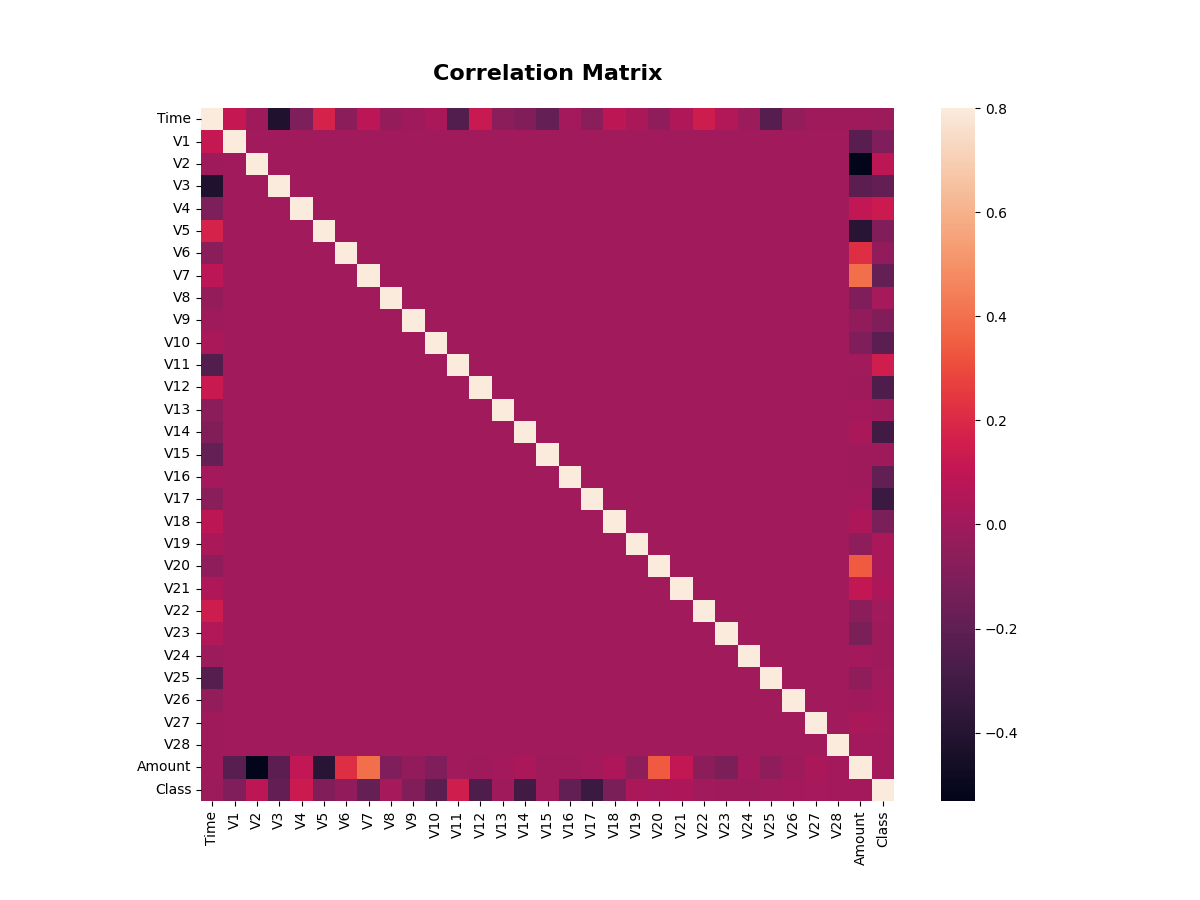
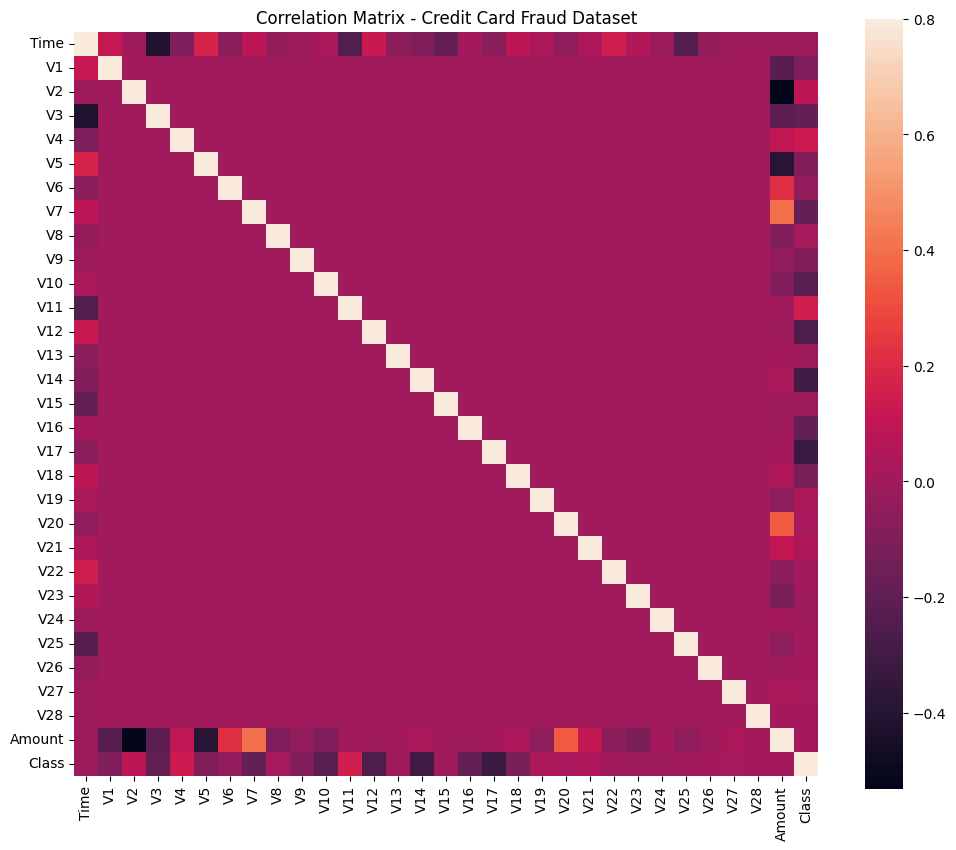
Updated clean and optimized code

diff --git a/scripts/compiled_model_results.py b/scripts/compiled_model_results.py
@@ -7,14 +7,12 @@ from imblearn.over_sampling import SMOTE
 from sklearn.preprocessing import StandardScaler
 from sklearn.metrics import precision_score, recall_score, f1_score, matthews_corrcoef
 
-# --- LOCAL PACKAGED MODULE IMPORTS ---
+# --- importing local packages ---
 from scripts.algorithms import (
     train_standard_rfc, train_optimized_rfc, train_xgboost, 
     train_balanced_rfc, train_logistic_regression, train_linear_svc, train_knn
 )
 
-from imblearn.over_sampling import SMOTE
-from sklearn.preprocessing import StandardScaler
 
 def smote_resampled(x_train, y_train):
     # Rebalanceing the dataset rows using SMOTE.
@@ -64,40 +62,38 @@ def model_evaluation():
     xTrain_scaled, xTest_scaled = scale_data(xTrain_res, xTest)
 
 
-    print("\n--- Training Benchmark Grid Started ---")
-    print("This will take a few moments as we are training 7 different models for benchmarking purposes\n")
+    # Defining the benchmark matrix configuration for all models to be evaluated in a single loop for efficiency and consistency.
+    model_pipeline = [
+        {"name": "Standard Random Forest Classifier", "func": train_standard_rfc, "args": (xTrain_res, yTrain_res, xTest)},
+        {"name": "Optimized Random Forest Classifier", "func": train_optimized_rfc, "args": (xTrain_res, yTrain_res, xTest)},
+        {"name": "XGBoost Classifier", "func": train_xgboost, "args": (xTrain, yTrain, xTest)},
+        {"name": "Balanced Random Forest Classifier", "func": train_balanced_rfc, "args": (xTrain, yTrain, xTest)},
+        {"name": "Logistic Regression", "func": train_logistic_regression, "args": (xTrain_scaled, yTrain_res, xTest_scaled)},
+        {"name": "Linear Support Vector Classifier", "func": train_linear_svc, "args": (xTrain_scaled, yTrain_res, xTest_scaled)},
+        {"name": "K-Nearest Neighbors Classifier", "func": train_knn, "args": (xTrain_scaled, yTrain_res, xTest_scaled)}
+    ]
 
-    print("Training Model 1: Standard Random Forest Classifier...")
-    pred_m1 = train_standard_rfc(xTrain_res, yTrain_res, xTest)
-
-    print("Training Model 2: Optimized Random Forest Classifier...")
-    pred_m2 = train_optimized_rfc(xTrain_res, yTrain_res, xTest)
-
-    print("Training Model 3: XGBoost Classifier...")
-    pred_m3 = train_xgboost(xTrain, yTrain, xTest)
-
-    print("Training Model 4: Balanced Random Forest Classifier...")
-    pred_m4 = train_balanced_rfc(xTrain, yTrain, xTest)
-
-    print("Training Model 5: Logistic Regression...")
-    pred_m5 = train_logistic_regression(xTrain_scaled, yTrain_res, xTest_scaled)
-
-    print("Training Model 6: Linear Support Vector Classifier...")
-    pred_m6 = train_linear_svc(xTrain_scaled, yTrain_res, xTest_scaled)
-
-    print("Training Model 7: K-Nearest Neighbors Classifier...")
-    pred_m7 = train_knn(xTrain_scaled, yTrain_res, xTest_scaled)
+    # Dynamic execution loop unpacks arguments on the fly
+    predictions = {}
+    for i, model in enumerate(model_pipeline, 1):
+        print(f"Training Model {i}: {model['name']}...")
+        predictions[f"pred_m{i}"] = model["func"](*model["args"])
 
     print("\nAll models trained successfully. Compiling metrics for each model...\n")                                              
 
-    # Compiling metrics for all models into a comprehensive comparison report
-    all_metrics = [get_metrics(yTest, p) for p in [pred_m1, pred_m2, pred_m3, pred_m4, pred_m5, pred_m6, pred_m7]]
+        # Compiling metrics for all models into a comprehensive comparison report
+    # Fine-tuned to pull sequentially from our dynamic keys to guarantee layout alignment
+    all_metrics = [get_metrics(yTest, predictions[f"pred_m{i}"]) for i in range(1, 8)]
     
     model_data = {
         'Model Strategy': [
-            'RandomForestClassifier (with SMOTE)', 'RandomForestClassifier (Optimized using GridSearchCV)', 
-            'XGBoost Classifier (with scale_pos_weight)', 'BalancedRandomForestClassifier (with internal class balancing)',
-            'Logistic Regression (Baseline on Scaled SMOTE Data)', 'Linear Support Vector Classifier (LinearSVC)', 'K-Nearest Neighbors (KNN Classifier)'
+            'RandomForestClassifier (with SMOTE)', 
+            'RandomForestClassifier (Optimized using GridSearchCV)', 
+            'XGBoost Classifier (with scale_pos_weight)', 
+            'BalancedRandomForestClassifier (with internal class balancing)',
+            'Logistic Regression (Baseline on Scaled SMOTE Data)', 
+            'Linear Support Vector Classifier (LinearSVC)', 
+            'K-Nearest Neighbors (KNN Classifier)'
         ],
         'Precision': [m[0] for m in all_metrics],
         'Recall': [m[1] for m in all_metrics],
@@ -105,10 +101,11 @@ def model_evaluation():
         'Matthews Correlation Coefficient': [m[3] for m in all_metrics], 
         'Total Frauds Missed': [m[4] for m in all_metrics]
     }
+
     
     comparison_df = pd.DataFrame(model_data).sort_values(by='Matthews Correlation Coefficient', ascending=False)
 
-    print("\n" + "="*120 + "\n                       FINAL MODEL COMPARISON REPORT\n" + "="*120)
+    print("\n" + "="*120 + "\n                 FINAL MODEL COMPARISON REPORT\n" + "="*120)
     print(comparison_df.to_string(index=False, formatters={
         'Precision': '{:,.2%}'.format, 'Recall': '{:,.2%}'.format, 'F1-Score': '{:,.2%}'.format,
         'Matthews Correlation Coefficient': '{:,.4f}'.format, 'Total Frauds Missed': '{:,.0f}'.format 

diff --git a/scripts/flagship_model.py b/scripts/flagship_model.py
@@ -58,7 +58,7 @@ def fraud_detection_model():
 
     print(f"Total frauds missed: {len(false_neg)}")
     print("Amount details of missed transactions (Sorted Low to High):")
-    print(false_neg[['Time', 'Amount', 'Actual', 'Predicted']].sort_values(by='Amount', ascending=True).to_string(index=False))
+    print(false_neg[['Time', 'Amount']].sort_values(by='Amount', ascending=True).to_string(index=False))
 
 
     # --- 4. Generating Confusion Matrix Visual ---